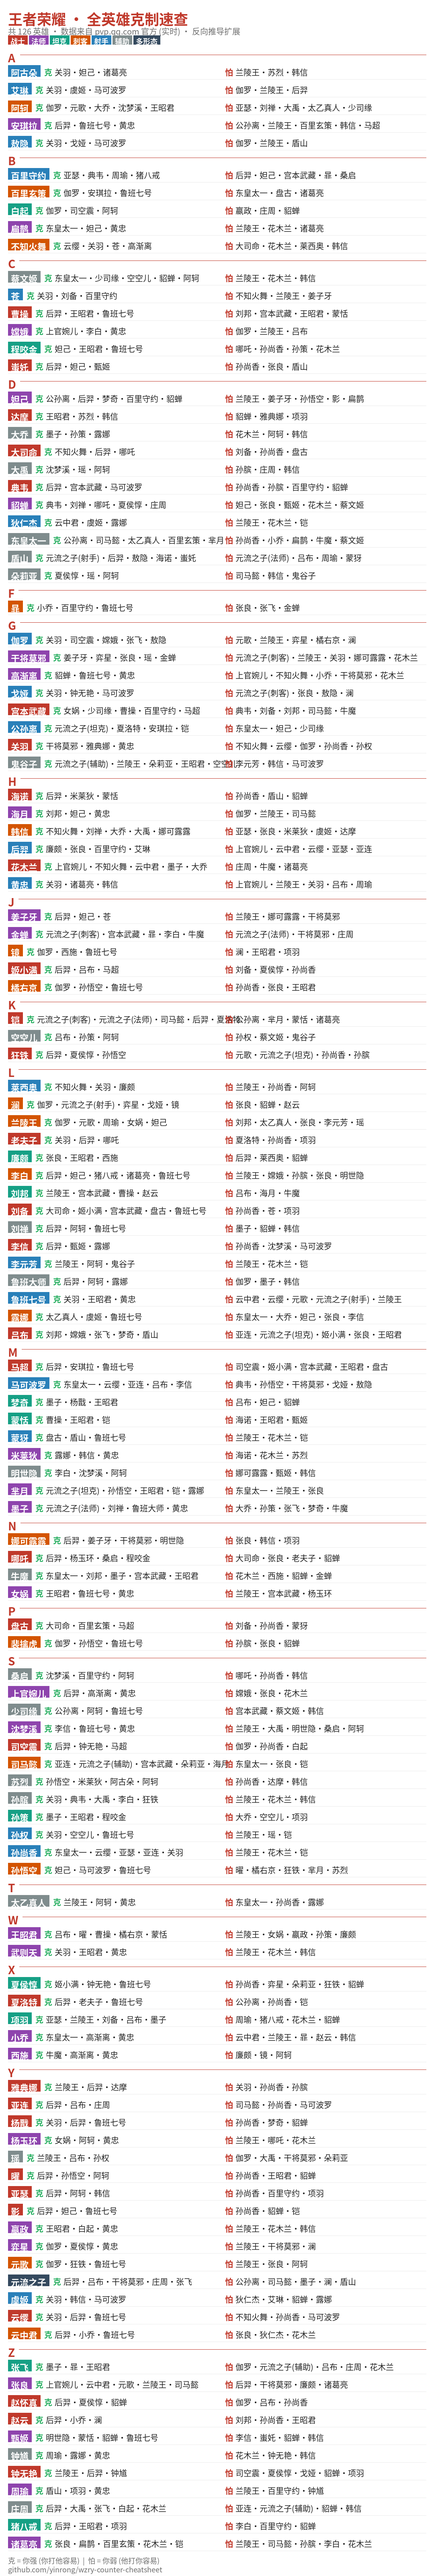
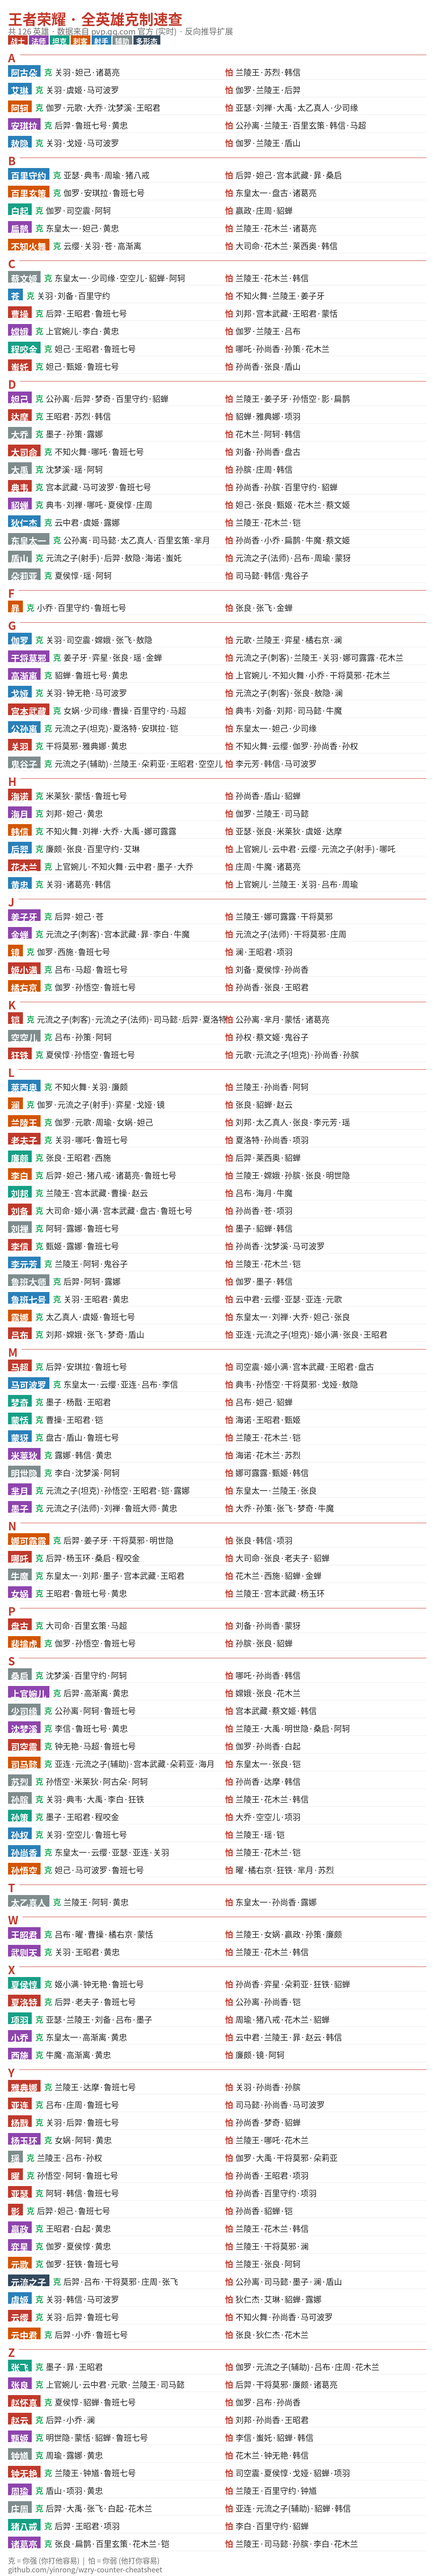
build: refresh counter data and cheatsheet

diff --git a/output/cheatsheet_mobile.html b/output/cheatsheet_mobile.html
@@ -110,15 +110,15 @@
 <div class="row"><span class="name" style="background:#c0392b">曹操</span><span class="type">战士</span><span class="kv"><span class="k-strong">克</span>后羿 · 王昭君 · 鲁班七号</span><span class="kv"><span class="k-weak">怕</span>刘邦 · 宫本武藏 · 王昭君 · 蒙恬</span></div>
 <div class="row"><span class="name" style="background:#8e44ad">嫦娥</span><span class="type">法师</span><span class="kv"><span class="k-strong">克</span>上官婉儿 · 李白 · 黄忠</span><span class="kv"><span class="k-weak">怕</span>伽罗 · 兰陵王 · 吕布</span></div>
 <div class="row"><span class="name" style="background:#16a085">程咬金</span><span class="type">坦克</span><span class="kv"><span class="k-strong">克</span>妲己 · 王昭君 · 鲁班七号</span><span class="kv"><span class="k-weak">怕</span>哪吒 · 孙尚香 · 孙策 · 花木兰</span></div>
-<div class="row"><span class="name" style="background:#c0392b">蚩奼</span><span class="type">战士</span><span class="kv"><span class="k-strong">克</span>后羿 · 妲己 · 甄姬</span><span class="kv"><span class="k-weak">怕</span>孙尚香 · 张良 · 盾山</span></div>
+<div class="row"><span class="name" style="background:#c0392b">蚩奼</span><span class="type">战士</span><span class="kv"><span class="k-strong">克</span>妲己 · 甄姬 · 鲁班七号</span><span class="kv"><span class="k-weak">怕</span>孙尚香 · 张良 · 盾山</span></div>
 <div class="group-title" id="g-D">D</div>
 <div class="row"><span class="name" style="background:#8e44ad">妲己</span><span class="type">法师</span><span class="kv"><span class="k-strong">克</span>公孙离 · 后羿 · 梦奇 · 百里守约 · 貂蝉 · 露娜</span><span class="kv"><span class="k-weak">怕</span>兰陵王 · 姜子牙 · 孙悟空 · 影 · 扁鹊 · 李白 · 海月 · 程咬金 · 花木兰 · 蚩奼 · 阿古朵</span></div>
 <div class="row"><span class="name" style="background:#c0392b">达摩</span><span class="type">战士</span><span class="kv"><span class="k-strong">克</span>王昭君 · 苏烈 · 韩信</span><span class="kv"><span class="k-weak">怕</span>貂蝉 · 雅典娜 · 项羽</span></div>
 <div class="row"><span class="name" style="background:#7f8c8d">大乔</span><span class="type">辅助</span><span class="kv"><span class="k-strong">克</span>墨子 · 孙策 · 露娜</span><span class="kv"><span class="k-weak">怕</span>花木兰 · 阿轲 · 韩信</span></div>
-<div class="row"><span class="name" style="background:#c0392b">大司命</span><span class="type">战士</span><span class="kv"><span class="k-strong">克</span>不知火舞 · 后羿 · 哪吒</span><span class="kv"><span class="k-weak">怕</span>刘备 · 孙尚香 · 盘古</span></div>
+<div class="row"><span class="name" style="background:#c0392b">大司命</span><span class="type">战士</span><span class="kv"><span class="k-strong">克</span>不知火舞 · 哪吒 · 鲁班七号</span><span class="kv"><span class="k-weak">怕</span>刘备 · 孙尚香 · 盘古</span></div>
 <div class="row"><span class="name" style="background:#7f8c8d">大禹</span><span class="type">辅助</span><span class="kv"><span class="k-strong">克</span>沈梦溪 · 瑶 · 阿轲</span><span class="kv"><span class="k-weak">怕</span>孙膑 · 庄周 · 韩信</span></div>
-<div class="row"><span class="name" style="background:#c0392b">典韦</span><span class="type">战士</span><span class="kv"><span class="k-strong">克</span>后羿 · 宫本武藏 · 马可波罗</span><span class="kv"><span class="k-weak">怕</span>孙尚香 · 孙膑 · 百里守约 · 貂蝉</span></div>
-<div class="row"><span class="name" style="background:#8e44ad">貂蝉</span><span class="type">法师</span><span class="kv"><span class="k-strong">克</span>典韦 · 刘禅 · 哪吒 · 夏侯惇 · 庄周 · 廉颇 · 张飞 · 影 · 曜 · 杨戬 · 梦奇 · 海诺 · 澜 · 牛魔 · 猪八戒 · 甄姬 · 白起 · 虞姬 · 裴擒虎 · 达摩 · 钟无艳 · 露娜 · 项羽</span><span class="kv"><span class="k-weak">怕</span>妲己 · 张良 · 甄姬 · 花木兰 · 蔡文姬 · 赵怀真 · 高渐离</span></div>
+<div class="row"><span class="name" style="background:#c0392b">典韦</span><span class="type">战士</span><span class="kv"><span class="k-strong">克</span>宫本武藏 · 马可波罗 · 鲁班七号</span><span class="kv"><span class="k-weak">怕</span>孙尚香 · 孙膑 · 百里守约 · 貂蝉</span></div>
+<div class="row"><span class="name" style="background:#8e44ad">貂蝉</span><span class="type">法师</span><span class="kv"><span class="k-strong">克</span>典韦 · 刘禅 · 哪吒 · 夏侯惇 · 庄周 · 廉颇 · 张飞 · 影 · 杨戬 · 梦奇 · 海诺 · 澜 · 牛魔 · 猪八戒 · 甄姬 · 白起 · 虞姬 · 裴擒虎 · 达摩 · 钟无艳 · 露娜 · 项羽</span><span class="kv"><span class="k-weak">怕</span>妲己 · 张良 · 甄姬 · 花木兰 · 蔡文姬 · 赵怀真 · 高渐离</span></div>
 <div class="row"><span class="name" style="background:#2980b9">狄仁杰</span><span class="type">射手</span><span class="kv"><span class="k-strong">克</span>云中君 · 虞姬 · 露娜</span><span class="kv"><span class="k-weak">怕</span>兰陵王 · 花木兰 · 铠</span></div>
 <div class="row"><span class="name" style="background:#7f8c8d">东皇太一</span><span class="type">辅助</span><span class="kv"><span class="k-strong">克</span>公孙离 · 司马懿 · 太乙真人 · 百里玄策 · 芈月 · 露娜</span><span class="kv"><span class="k-weak">怕</span>孙尚香 · 小乔 · 扁鹊 · 牛魔 · 蔡文姬 · 马可波罗</span></div>
 <div class="row"><span class="name" style="background:#7f8c8d">盾山</span><span class="type">辅助</span><span class="kv"><span class="k-strong">克</span>元流之子(射手) · 后羿 · 敖隐 · 海诺 · 蚩奼 · 马可波罗</span><span class="kv"><span class="k-weak">怕</span>元流之子(法师) · 吕布 · 周瑜 · 蒙犽</span></div>
@@ -135,37 +135,37 @@
 <div class="row"><span class="name" style="background:#c0392b">关羽</span><span class="type">战士</span><span class="kv"><span class="k-strong">克</span>干将莫邪 · 雅典娜 · 黄忠</span><span class="kv"><span class="k-weak">怕</span>不知火舞 · 云缨 · 伽罗 · 孙尚香 · 孙权 · 孙膑 · 戈娅 · 敖隐 · 杨戬 · 武则天 · 老夫子 · 艾琳 · 苍 · 莱西奥 · 虞姬 · 阿古朵 · 鲁班七号 · 黄忠</span></div>
 <div class="row"><span class="name" style="background:#7f8c8d">鬼谷子</span><span class="type">辅助</span><span class="kv"><span class="k-strong">克</span>元流之子(辅助) · 兰陵王 · 朵莉亚 · 王昭君 · 空空儿</span><span class="kv"><span class="k-weak">怕</span>李元芳 · 韩信 · 马可波罗</span></div>
 <div class="group-title" id="g-H">H</div>
-<div class="row"><span class="name" style="background:#c0392b">海诺</span><span class="type">战士</span><span class="kv"><span class="k-strong">克</span>后羿 · 米莱狄 · 蒙恬</span><span class="kv"><span class="k-weak">怕</span>孙尚香 · 盾山 · 貂蝉</span></div>
+<div class="row"><span class="name" style="background:#c0392b">海诺</span><span class="type">战士</span><span class="kv"><span class="k-strong">克</span>米莱狄 · 蒙恬 · 鲁班七号</span><span class="kv"><span class="k-weak">怕</span>孙尚香 · 盾山 · 貂蝉</span></div>
 <div class="row"><span class="name" style="background:#8e44ad">海月</span><span class="type">法师</span><span class="kv"><span class="k-strong">克</span>刘邦 · 妲己 · 黄忠</span><span class="kv"><span class="k-weak">怕</span>伽罗 · 兰陵王 · 司马懿</span></div>
 <div class="row"><span class="name" style="background:#d35400">韩信</span><span class="type">刺客</span><span class="kv"><span class="k-strong">克</span>不知火舞 · 刘禅 · 大乔 · 大禹 · 娜可露露 · 嬴政 · 孙膑 · 安琪拉 · 小乔 · 少司缘 · 庄周 · 明世隐 · 朵莉亚 · 李白 · 桑启 · 武则天 · 王昭君 · 甄姬 · 苏烈 · 蔡文姬 · 钟馗 · 阿古朵 · 露娜 · 高渐离 · 鬼谷子 · 鲁班大师</span><span class="kv"><span class="k-weak">怕</span>亚瑟 · 张良 · 米莱狄 · 虞姬 · 达摩 · 项羽 · 黄忠</span></div>
-<div class="row"><span class="name" style="background:#2980b9">后羿</span><span class="type">射手</span><span class="kv"><span class="k-strong">克</span>廉颇 · 张良 · 百里守约 · 艾琳</span><span class="kv"><span class="k-weak">怕</span>上官婉儿 · 云中君 · 云缨 · 亚瑟 · 亚连 · 元流之子(射手) · 典韦 · 刘禅 · 司空震 · 哪吒 · 夏洛特 · 大司命 · 妲己 · 姜子牙 · 姬小满 · 娜可露露 · 安琪拉 · 庄周 · 影 · 曜 · 曹操 · 李信 · 李白 · 杨戬 · 海诺 · 狂铁 · 猪八戒 · 盾山 · 老夫子 · 蚩奼 · 赵云 · 赵怀真 · 钟无艳 · 铠 · 雅典娜 · 马超 · 鲁班大师</span></div>
+<div class="row"><span class="name" style="background:#2980b9">后羿</span><span class="type">射手</span><span class="kv"><span class="k-strong">克</span>廉颇 · 张良 · 百里守约 · 艾琳</span><span class="kv"><span class="k-weak">怕</span>上官婉儿 · 云中君 · 云缨 · 元流之子(射手) · 哪吒 · 夏洛特 · 妲己 · 姜子牙 · 娜可露露 · 安琪拉 · 庄周 · 影 · 曹操 · 李白 · 杨戬 · 猪八戒 · 盾山 · 赵云 · 铠 · 马超 · 鲁班大师</span></div>
 <div class="row"><span class="name" style="background:#c0392b">花木兰</span><span class="type">战士</span><span class="kv"><span class="k-strong">克</span>上官婉儿 · 不知火舞 · 云中君 · 墨子 · 大乔 · 妲己 · 嬴政 · 孙尚香 · 孙膑 · 干将莫邪 · 张飞 · 扁鹊 · 李元芳 · 杨玉环 · 武则天 · 牛魔 · 狄仁杰 · 程咬金 · 米莱狄 · 蒙犽 · 蔡文姬 · 诸葛亮 · 貂蝉 · 钟馗 · 项羽 · 马可波罗 · 高渐离 · 鲁班七号 · 黄忠</span><span class="kv"><span class="k-weak">怕</span>庄周 · 牛魔 · 诸葛亮</span></div>
 <div class="row"><span class="name" style="background:#2980b9">黄忠</span><span class="type">射手</span><span class="kv"><span class="k-strong">克</span>关羽 · 诸葛亮 · 韩信</span><span class="kv"><span class="k-weak">怕</span>上官婉儿 · 兰陵王 · 关羽 · 吕布 · 周瑜 · 墨子 · 太乙真人 · 女娲 · 嫦娥 · 嬴政 · 安琪拉 · 小乔 · 干将莫邪 · 弈星 · 扁鹊 · 杨玉环 · 武则天 · 沈梦溪 · 海月 · 米莱狄 · 花木兰 · 西施 · 钟馗 · 高渐离 · 鲁班七号</span></div>
 <div class="group-title" id="g-J">J</div>
 <div class="row"><span class="name" style="background:#8e44ad">姜子牙</span><span class="type">法师</span><span class="kv"><span class="k-strong">克</span>后羿 · 妲己 · 苍</span><span class="kv"><span class="k-weak">怕</span>兰陵王 · 娜可露露 · 干将莫邪</span></div>
 <div class="row"><span class="name" style="background:#8e44ad">金蝉</span><span class="type">法师</span><span class="kv"><span class="k-strong">克</span>元流之子(刺客) · 宫本武藏 · 暃 · 李白 · 牛魔</span><span class="kv"><span class="k-weak">怕</span>元流之子(法师) · 干将莫邪 · 庄周</span></div>
 <div class="row"><span class="name" style="background:#d35400">镜</span><span class="type">刺客</span><span class="kv"><span class="k-strong">克</span>伽罗 · 西施 · 鲁班七号</span><span class="kv"><span class="k-weak">怕</span>澜 · 王昭君 · 项羽</span></div>
-<div class="row"><span class="name" style="background:#c0392b">姬小满</span><span class="type">战士</span><span class="kv"><span class="k-strong">克</span>后羿 · 吕布 · 马超</span><span class="kv"><span class="k-weak">怕</span>刘备 · 夏侯惇 · 孙尚香</span></div>
+<div class="row"><span class="name" style="background:#c0392b">姬小满</span><span class="type">战士</span><span class="kv"><span class="k-strong">克</span>吕布 · 马超 · 鲁班七号</span><span class="kv"><span class="k-weak">怕</span>刘备 · 夏侯惇 · 孙尚香</span></div>
 <div class="row"><span class="name" style="background:#d35400">橘右京</span><span class="type">刺客</span><span class="kv"><span class="k-strong">克</span>伽罗 · 孙悟空 · 鲁班七号</span><span class="kv"><span class="k-weak">怕</span>孙尚香 · 张良 · 王昭君</span></div>
 <div class="group-title" id="g-K">K</div>
 <div class="row"><span class="name" style="background:#c0392b">铠</span><span class="type">战士</span><span class="kv"><span class="k-strong">克</span>元流之子(刺客) · 元流之子(法师) · 司马懿 · 后羿 · 夏洛特 · 孙尚香 · 孙权 · 影 · 李元芳 · 狄仁杰 · 蒙犽 · 马超 · 鲁班七号</span><span class="kv"><span class="k-weak">怕</span>公孙离 · 芈月 · 蒙恬 · 诸葛亮</span></div>
 <div class="row"><span class="name" style="background:#7f8c8d">空空儿</span><span class="type">辅助</span><span class="kv"><span class="k-strong">克</span>吕布 · 孙策 · 阿轲</span><span class="kv"><span class="k-weak">怕</span>孙权 · 蔡文姬 · 鬼谷子</span></div>
-<div class="row"><span class="name" style="background:#c0392b">狂铁</span><span class="type">战士</span><span class="kv"><span class="k-strong">克</span>后羿 · 夏侯惇 · 孙悟空</span><span class="kv"><span class="k-weak">怕</span>元歌 · 元流之子(坦克) · 孙尚香 · 孙膑</span></div>
+<div class="row"><span class="name" style="background:#c0392b">狂铁</span><span class="type">战士</span><span class="kv"><span class="k-strong">克</span>夏侯惇 · 孙悟空 · 鲁班七号</span><span class="kv"><span class="k-weak">怕</span>元歌 · 元流之子(坦克) · 孙尚香 · 孙膑</span></div>
 <div class="group-title" id="g-L">L</div>
 <div class="row"><span class="name" style="background:#2980b9">莱西奥</span><span class="type">射手</span><span class="kv"><span class="k-strong">克</span>不知火舞 · 关羽 · 廉颇</span><span class="kv"><span class="k-weak">怕</span>兰陵王 · 孙尚香 · 阿轲</span></div>
 <div class="row"><span class="name" style="background:#d35400">澜</span><span class="type">刺客</span><span class="kv"><span class="k-strong">克</span>伽罗 · 元流之子(射手) · 弈星 · 戈娅 · 镜</span><span class="kv"><span class="k-weak">怕</span>张良 · 貂蝉 · 赵云</span></div>
 <div class="row"><span class="name" style="background:#d35400">兰陵王</span><span class="type">刺客</span><span class="kv"><span class="k-strong">克</span>伽罗 · 元歌 · 周瑜 · 女娲 · 妲己 · 姜子牙 · 嫦娥 · 嬴政 · 孙尚香 · 孙权 · 孙膑 · 安琪拉 · 小乔 · 干将莫邪 · 弈星 · 扁鹊 · 敖隐 · 李元芳 · 李白 · 杨玉环 · 武则天 · 沈梦溪 · 海月 · 狄仁杰 · 王昭君 · 艾琳 · 芈月 · 苍 · 莱西奥 · 蒙犽 · 蔡文姬 · 诸葛亮 · 阿古朵 · 鲁班七号 · 黄忠</span><span class="kv"><span class="k-weak">怕</span>刘邦 · 太乙真人 · 张良 · 李元芳 · 瑶 · 钟无艳 · 雅典娜 · 项羽 · 鬼谷子</span></div>
-<div class="row"><span class="name" style="background:#c0392b">老夫子</span><span class="type">战士</span><span class="kv"><span class="k-strong">克</span>关羽 · 后羿 · 哪吒</span><span class="kv"><span class="k-weak">怕</span>夏洛特 · 孙尚香 · 项羽</span></div>
+<div class="row"><span class="name" style="background:#c0392b">老夫子</span><span class="type">战士</span><span class="kv"><span class="k-strong">克</span>关羽 · 哪吒 · 鲁班七号</span><span class="kv"><span class="k-weak">怕</span>夏洛特 · 孙尚香 · 项羽</span></div>
 <div class="row"><span class="name" style="background:#16a085">廉颇</span><span class="type">坦克</span><span class="kv"><span class="k-strong">克</span>张良 · 王昭君 · 西施</span><span class="kv"><span class="k-weak">怕</span>后羿 · 莱西奥 · 貂蝉</span></div>
 <div class="row"><span class="name" style="background:#d35400">李白</span><span class="type">刺客</span><span class="kv"><span class="k-strong">克</span>后羿 · 妲己 · 猪八戒 · 诸葛亮 · 鲁班七号</span><span class="kv"><span class="k-weak">怕</span>兰陵王 · 嫦娥 · 孙膑 · 张良 · 明世隐 · 金蝉 · 韩信</span></div>
 <div class="row"><span class="name" style="background:#16a085">刘邦</span><span class="type">坦克</span><span class="kv"><span class="k-strong">克</span>兰陵王 · 宫本武藏 · 曹操 · 赵云</span><span class="kv"><span class="k-weak">怕</span>吕布 · 海月 · 牛魔</span></div>
 <div class="row"><span class="name" style="background:#c0392b">刘备</span><span class="type">战士</span><span class="kv"><span class="k-strong">克</span>大司命 · 姬小满 · 宫本武藏 · 盘古 · 鲁班七号</span><span class="kv"><span class="k-weak">怕</span>孙尚香 · 苍 · 项羽</span></div>
-<div class="row"><span class="name" style="background:#7f8c8d">刘禅</span><span class="type">辅助</span><span class="kv"><span class="k-strong">克</span>后羿 · 阿轲 · 鲁班七号</span><span class="kv"><span class="k-weak">怕</span>墨子 · 貂蝉 · 韩信</span></div>
-<div class="row"><span class="name" style="background:#c0392b">李信</span><span class="type">战士</span><span class="kv"><span class="k-strong">克</span>后羿 · 甄姬 · 露娜</span><span class="kv"><span class="k-weak">怕</span>孙尚香 · 沈梦溪 · 马可波罗</span></div>
+<div class="row"><span class="name" style="background:#7f8c8d">刘禅</span><span class="type">辅助</span><span class="kv"><span class="k-strong">克</span>阿轲 · 露娜 · 鲁班七号</span><span class="kv"><span class="k-weak">怕</span>墨子 · 貂蝉 · 韩信</span></div>
+<div class="row"><span class="name" style="background:#c0392b">李信</span><span class="type">战士</span><span class="kv"><span class="k-strong">克</span>甄姬 · 露娜 · 鲁班七号</span><span class="kv"><span class="k-weak">怕</span>孙尚香 · 沈梦溪 · 马可波罗</span></div>
 <div class="row"><span class="name" style="background:#2980b9">李元芳</span><span class="type">射手</span><span class="kv"><span class="k-strong">克</span>兰陵王 · 阿轲 · 鬼谷子</span><span class="kv"><span class="k-weak">怕</span>兰陵王 · 花木兰 · 铠</span></div>
 <div class="row"><span class="name" style="background:#7f8c8d">鲁班大师</span><span class="type">辅助</span><span class="kv"><span class="k-strong">克</span>后羿 · 阿轲 · 露娜</span><span class="kv"><span class="k-weak">怕</span>伽罗 · 墨子 · 韩信</span></div>
-<div class="row"><span class="name" style="background:#2980b9">鲁班七号</span><span class="type">射手</span><span class="kv"><span class="k-strong">克</span>关羽 · 王昭君 · 黄忠</span><span class="kv"><span class="k-weak">怕</span>云中君 · 云缨 · 元歌 · 元流之子(射手) · 兰陵王 · 刘备 · 刘禅 · 夏侯惇 · 夏洛特 · 女娲 · 孙悟空 · 孙权 · 安琪拉 · 少司缘 · 影 · 暃 · 曹操 · 李白 · 杨戬 · 橘右京 · 沈梦溪 · 王昭君 · 甄姬 · 百里玄策 · 程咬金 · 花木兰 · 蒙犽 · 裴擒虎 · 诸葛亮 · 铠 · 镜 · 阿轲 · 露娜 · 马超 · 高渐离</span></div>
-<div class="row"><span class="name" style="background:#d35400">露娜</span><span class="type">刺客</span><span class="kv"><span class="k-strong">克</span>太乙真人 · 虞姬 · 鲁班七号</span><span class="kv"><span class="k-weak">怕</span>东皇太一 · 大乔 · 妲己 · 张良 · 李信 · 狄仁杰 · 米莱狄 · 芈月 · 貂蝉 · 钟馗 · 韩信 · 鲁班大师</span></div>
+<div class="row"><span class="name" style="background:#2980b9">鲁班七号</span><span class="type">射手</span><span class="kv"><span class="k-strong">克</span>关羽 · 王昭君 · 黄忠</span><span class="kv"><span class="k-weak">怕</span>云中君 · 云缨 · 亚瑟 · 亚连 · 元歌 · 元流之子(射手) · 兰陵王 · 典韦 · 刘备 · 刘禅 · 司空震 · 夏侯惇 · 夏洛特 · 大司命 · 女娲 · 姬小满 · 孙悟空 · 孙权 · 安琪拉 · 少司缘 · 影 · 暃 · 曜 · 曹操 · 李信 · 李白 · 杨戬 · 橘右京 · 沈梦溪 · 海诺 · 狂铁 · 王昭君 · 甄姬 · 百里玄策 · 程咬金 · 老夫子 · 花木兰 · 蒙犽 · 蚩奼 · 裴擒虎 · 诸葛亮 · 赵怀真 · 钟无艳 · 铠 · 镜 · 阿轲 · 雅典娜 · 露娜 · 马超 · 高渐离</span></div>
+<div class="row"><span class="name" style="background:#d35400">露娜</span><span class="type">刺客</span><span class="kv"><span class="k-strong">克</span>太乙真人 · 虞姬 · 鲁班七号</span><span class="kv"><span class="k-weak">怕</span>东皇太一 · 刘禅 · 大乔 · 妲己 · 张良 · 李信 · 狄仁杰 · 米莱狄 · 芈月 · 貂蝉 · 钟馗 · 韩信 · 鲁班大师</span></div>
 <div class="row"><span class="name" style="background:#c0392b">吕布</span><span class="type">战士</span><span class="kv"><span class="k-strong">克</span>刘邦 · 嫦娥 · 张飞 · 梦奇 · 盾山 · 赵怀真 · 黄忠</span><span class="kv"><span class="k-weak">怕</span>亚连 · 元流之子(坦克) · 姬小满 · 张良 · 王昭君 · 瑶 · 空空儿 · 项羽 · 马可波罗</span></div>
 <div class="group-title" id="g-M">M</div>
 <div class="row"><span class="name" style="background:#c0392b">马超</span><span class="type">战士</span><span class="kv"><span class="k-strong">克</span>后羿 · 安琪拉 · 鲁班七号</span><span class="kv"><span class="k-weak">怕</span>司空震 · 姬小满 · 宫本武藏 · 王昭君 · 盘古 · 铠</span></div>
@@ -190,7 +190,7 @@
 <div class="row"><span class="name" style="background:#8e44ad">上官婉儿</span><span class="type">法师</span><span class="kv"><span class="k-strong">克</span>后羿 · 高渐离 · 黄忠</span><span class="kv"><span class="k-weak">怕</span>嫦娥 · 张良 · 花木兰</span></div>
 <div class="row"><span class="name" style="background:#7f8c8d">少司缘</span><span class="type">辅助</span><span class="kv"><span class="k-strong">克</span>公孙离 · 阿轲 · 鲁班七号</span><span class="kv"><span class="k-weak">怕</span>宫本武藏 · 蔡文姬 · 韩信</span></div>
 <div class="row"><span class="name" style="background:#8e44ad">沈梦溪</span><span class="type">法师</span><span class="kv"><span class="k-strong">克</span>李信 · 鲁班七号 · 黄忠</span><span class="kv"><span class="k-weak">怕</span>兰陵王 · 大禹 · 明世隐 · 桑启 · 阿轲</span></div>
-<div class="row"><span class="name" style="background:#c0392b">司空震</span><span class="type">战士</span><span class="kv"><span class="k-strong">克</span>后羿 · 钟无艳 · 马超</span><span class="kv"><span class="k-weak">怕</span>伽罗 · 孙尚香 · 白起</span></div>
+<div class="row"><span class="name" style="background:#c0392b">司空震</span><span class="type">战士</span><span class="kv"><span class="k-strong">克</span>钟无艳 · 马超 · 鲁班七号</span><span class="kv"><span class="k-weak">怕</span>伽罗 · 孙尚香 · 白起</span></div>
 <div class="row"><span class="name" style="background:#d35400">司马懿</span><span class="type">刺客</span><span class="kv"><span class="k-strong">克</span>亚连 · 元流之子(辅助) · 宫本武藏 · 朵莉亚 · 海月 · 诸葛亮</span><span class="kv"><span class="k-weak">怕</span>东皇太一 · 张良 · 铠</span></div>
 <div class="row"><span class="name" style="background:#7f8c8d">苏烈</span><span class="type">辅助</span><span class="kv"><span class="k-strong">克</span>孙悟空 · 米莱狄 · 阿古朵 · 阿轲</span><span class="kv"><span class="k-weak">怕</span>孙尚香 · 达摩 · 韩信</span></div>
 <div class="row"><span class="name" style="background:#7f8c8d">孙膑</span><span class="type">辅助</span><span class="kv"><span class="k-strong">克</span>关羽 · 典韦 · 大禹 · 李白 · 狂铁 · 裴擒虎 · 诸葛亮 · 雅典娜</span><span class="kv"><span class="k-weak">怕</span>兰陵王 · 花木兰 · 韩信</span></div>
@@ -206,17 +206,17 @@
 <div class="group-title" id="g-X">X</div>
 <div class="row"><span class="name" style="background:#16a085">夏侯惇</span><span class="type">坦克</span><span class="kv"><span class="k-strong">克</span>姬小满 · 钟无艳 · 鲁班七号</span><span class="kv"><span class="k-weak">怕</span>孙尚香 · 弈星 · 朵莉亚 · 狂铁 · 貂蝉 · 赵怀真</span></div>
 <div class="row"><span class="name" style="background:#c0392b">夏洛特</span><span class="type">战士</span><span class="kv"><span class="k-strong">克</span>后羿 · 老夫子 · 鲁班七号</span><span class="kv"><span class="k-weak">怕</span>公孙离 · 孙尚香 · 铠</span></div>
-<div class="row"><span class="name" style="background:#16a085">项羽</span><span class="type">坦克</span><span class="kv"><span class="k-strong">克</span>亚瑟 · 兰陵王 · 刘备 · 吕布 · 墨子 · 娜可露露 · 孙悟空 · 孙策 · 宫本武藏 · 王昭君 · 老夫子 · 达摩 · 钟无艳 · 镜 · 韩信</span><span class="kv"><span class="k-weak">怕</span>周瑜 · 猪八戒 · 花木兰 · 貂蝉</span></div>
+<div class="row"><span class="name" style="background:#16a085">项羽</span><span class="type">坦克</span><span class="kv"><span class="k-strong">克</span>亚瑟 · 兰陵王 · 刘备 · 吕布 · 墨子 · 娜可露露 · 孙悟空 · 孙策 · 宫本武藏 · 曜 · 王昭君 · 老夫子 · 达摩 · 钟无艳 · 镜 · 韩信</span><span class="kv"><span class="k-weak">怕</span>周瑜 · 猪八戒 · 花木兰 · 貂蝉</span></div>
 <div class="row"><span class="name" style="background:#8e44ad">小乔</span><span class="type">法师</span><span class="kv"><span class="k-strong">克</span>东皇太一 · 高渐离 · 黄忠</span><span class="kv"><span class="k-weak">怕</span>云中君 · 兰陵王 · 暃 · 赵云 · 韩信</span></div>
 <div class="row"><span class="name" style="background:#8e44ad">西施</span><span class="type">法师</span><span class="kv"><span class="k-strong">克</span>牛魔 · 高渐离 · 黄忠</span><span class="kv"><span class="k-weak">怕</span>廉颇 · 镜 · 阿轲</span></div>
 <div class="group-title" id="g-Y">Y</div>
-<div class="row"><span class="name" style="background:#c0392b">雅典娜</span><span class="type">战士</span><span class="kv"><span class="k-strong">克</span>兰陵王 · 后羿 · 达摩</span><span class="kv"><span class="k-weak">怕</span>关羽 · 孙尚香 · 孙膑</span></div>
-<div class="row"><span class="name" style="background:#c0392b">亚连</span><span class="type">战士</span><span class="kv"><span class="k-strong">克</span>后羿 · 吕布 · 庄周</span><span class="kv"><span class="k-weak">怕</span>司马懿 · 孙尚香 · 马可波罗</span></div>
+<div class="row"><span class="name" style="background:#c0392b">雅典娜</span><span class="type">战士</span><span class="kv"><span class="k-strong">克</span>兰陵王 · 达摩 · 鲁班七号</span><span class="kv"><span class="k-weak">怕</span>关羽 · 孙尚香 · 孙膑</span></div>
+<div class="row"><span class="name" style="background:#c0392b">亚连</span><span class="type">战士</span><span class="kv"><span class="k-strong">克</span>吕布 · 庄周 · 鲁班七号</span><span class="kv"><span class="k-weak">怕</span>司马懿 · 孙尚香 · 马可波罗</span></div>
 <div class="row"><span class="name" style="background:#c0392b">杨戬</span><span class="type">战士</span><span class="kv"><span class="k-strong">克</span>关羽 · 后羿 · 鲁班七号</span><span class="kv"><span class="k-weak">怕</span>孙尚香 · 梦奇 · 貂蝉</span></div>
 <div class="row"><span class="name" style="background:#8e44ad">杨玉环</span><span class="type">法师</span><span class="kv"><span class="k-strong">克</span>女娲 · 阿轲 · 黄忠</span><span class="kv"><span class="k-weak">怕</span>兰陵王 · 哪吒 · 花木兰</span></div>
 <div class="row"><span class="name" style="background:#7f8c8d">瑶</span><span class="type">辅助</span><span class="kv"><span class="k-strong">克</span>兰陵王 · 吕布 · 孙权</span><span class="kv"><span class="k-weak">怕</span>伽罗 · 大禹 · 干将莫邪 · 朵莉亚</span></div>
-<div class="row"><span class="name" style="background:#c0392b">曜</span><span class="type">战士</span><span class="kv"><span class="k-strong">克</span>后羿 · 孙悟空 · 阿轲</span><span class="kv"><span class="k-weak">怕</span>孙尚香 · 王昭君 · 貂蝉</span></div>
-<div class="row"><span class="name" style="background:#c0392b">亚瑟</span><span class="type">战士</span><span class="kv"><span class="k-strong">克</span>后羿 · 阿轲 · 韩信</span><span class="kv"><span class="k-weak">怕</span>孙尚香 · 百里守约 · 项羽</span></div>
+<div class="row"><span class="name" style="background:#c0392b">曜</span><span class="type">战士</span><span class="kv"><span class="k-strong">克</span>孙悟空 · 阿轲 · 鲁班七号</span><span class="kv"><span class="k-weak">怕</span>孙尚香 · 王昭君 · 项羽</span></div>
+<div class="row"><span class="name" style="background:#c0392b">亚瑟</span><span class="type">战士</span><span class="kv"><span class="k-strong">克</span>阿轲 · 韩信 · 鲁班七号</span><span class="kv"><span class="k-weak">怕</span>孙尚香 · 百里守约 · 项羽</span></div>
 <div class="row"><span class="name" style="background:#c0392b">影</span><span class="type">战士</span><span class="kv"><span class="k-strong">克</span>后羿 · 妲己 · 鲁班七号</span><span class="kv"><span class="k-weak">怕</span>孙尚香 · 貂蝉 · 铠</span></div>
 <div class="row"><span class="name" style="background:#8e44ad">嬴政</span><span class="type">法师</span><span class="kv"><span class="k-strong">克</span>王昭君 · 白起 · 黄忠</span><span class="kv"><span class="k-weak">怕</span>兰陵王 · 花木兰 · 韩信</span></div>
 <div class="row"><span class="name" style="background:#8e44ad">弈星</span><span class="type">法师</span><span class="kv"><span class="k-strong">克</span>伽罗 · 夏侯惇 · 黄忠</span><span class="kv"><span class="k-weak">怕</span>兰陵王 · 干将莫邪 · 澜</span></div>
@@ -228,11 +228,11 @@
 <div class="group-title" id="g-Z">Z</div>
 <div class="row"><span class="name" style="background:#16a085">张飞</span><span class="type">坦克</span><span class="kv"><span class="k-strong">克</span>墨子 · 暃 · 王昭君</span><span class="kv"><span class="k-weak">怕</span>伽罗 · 元流之子(辅助) · 吕布 · 庄周 · 花木兰 · 貂蝉</span></div>
 <div class="row"><span class="name" style="background:#8e44ad">张良</span><span class="type">法师</span><span class="kv"><span class="k-strong">克</span>上官婉儿 · 云中君 · 元歌 · 兰陵王 · 司马懿 · 吕布 · 哪吒 · 娜可露露 · 戈娅 · 暃 · 李白 · 橘右京 · 澜 · 王昭君 · 芈月 · 蚩奼 · 裴擒虎 · 貂蝉 · 露娜 · 韩信</span><span class="kv"><span class="k-weak">怕</span>后羿 · 干将莫邪 · 廉颇 · 诸葛亮</span></div>
-<div class="row"><span class="name" style="background:#c0392b">赵怀真</span><span class="type">战士</span><span class="kv"><span class="k-strong">克</span>后羿 · 夏侯惇 · 貂蝉</span><span class="kv"><span class="k-weak">怕</span>伽罗 · 吕布 · 孙尚香</span></div>
+<div class="row"><span class="name" style="background:#c0392b">赵怀真</span><span class="type">战士</span><span class="kv"><span class="k-strong">克</span>夏侯惇 · 貂蝉 · 鲁班七号</span><span class="kv"><span class="k-weak">怕</span>伽罗 · 吕布 · 孙尚香</span></div>
 <div class="row"><span class="name" style="background:#c0392b">赵云</span><span class="type">战士</span><span class="kv"><span class="k-strong">克</span>后羿 · 小乔 · 澜</span><span class="kv"><span class="k-weak">怕</span>刘邦 · 孙尚香 · 王昭君</span></div>
 <div class="row"><span class="name" style="background:#8e44ad">甄姬</span><span class="type">法师</span><span class="kv"><span class="k-strong">克</span>明世隐 · 蒙恬 · 貂蝉 · 鲁班七号</span><span class="kv"><span class="k-weak">怕</span>李信 · 蚩奼 · 貂蝉 · 韩信</span></div>
 <div class="row"><span class="name" style="background:#7f8c8d">钟馗</span><span class="type">辅助</span><span class="kv"><span class="k-strong">克</span>周瑜 · 露娜 · 黄忠</span><span class="kv"><span class="k-weak">怕</span>花木兰 · 钟无艳 · 韩信</span></div>
-<div class="row"><span class="name" style="background:#c0392b">钟无艳</span><span class="type">战士</span><span class="kv"><span class="k-strong">克</span>兰陵王 · 后羿 · 钟馗</span><span class="kv"><span class="k-weak">怕</span>司空震 · 夏侯惇 · 戈娅 · 貂蝉 · 项羽</span></div>
+<div class="row"><span class="name" style="background:#c0392b">钟无艳</span><span class="type">战士</span><span class="kv"><span class="k-strong">克</span>兰陵王 · 钟馗 · 鲁班七号</span><span class="kv"><span class="k-weak">怕</span>司空震 · 夏侯惇 · 戈娅 · 貂蝉 · 项羽</span></div>
 <div class="row"><span class="name" style="background:#8e44ad">周瑜</span><span class="type">法师</span><span class="kv"><span class="k-strong">克</span>盾山 · 项羽 · 黄忠</span><span class="kv"><span class="k-weak">怕</span>兰陵王 · 百里守约 · 钟馗</span></div>
 <div class="row"><span class="name" style="background:#7f8c8d">庄周</span><span class="type">辅助</span><span class="kv"><span class="k-strong">克</span>后羿 · 大禹 · 张飞 · 白起 · 花木兰 · 金蝉</span><span class="kv"><span class="k-weak">怕</span>亚连 · 元流之子(辅助) · 貂蝉 · 韩信</span></div>
 <div class="row"><span class="name" style="background:#16a085">猪八戒</span><span class="type">坦克</span><span class="kv"><span class="k-strong">克</span>后羿 · 王昭君 · 项羽</span><span class="kv"><span class="k-weak">怕</span>李白 · 百里守约 · 貂蝉</span></div>
